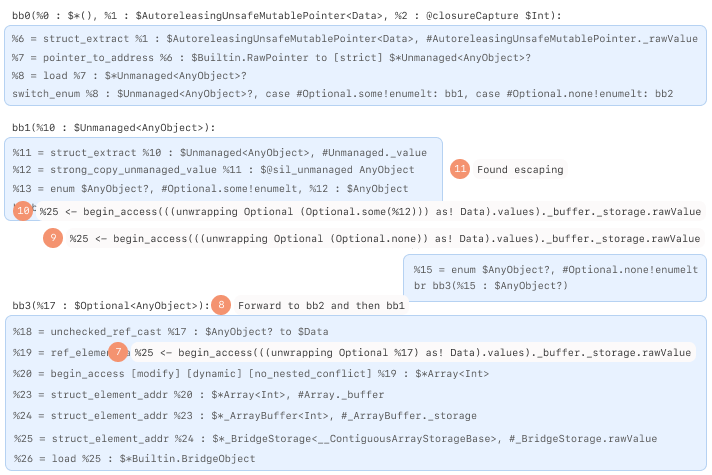
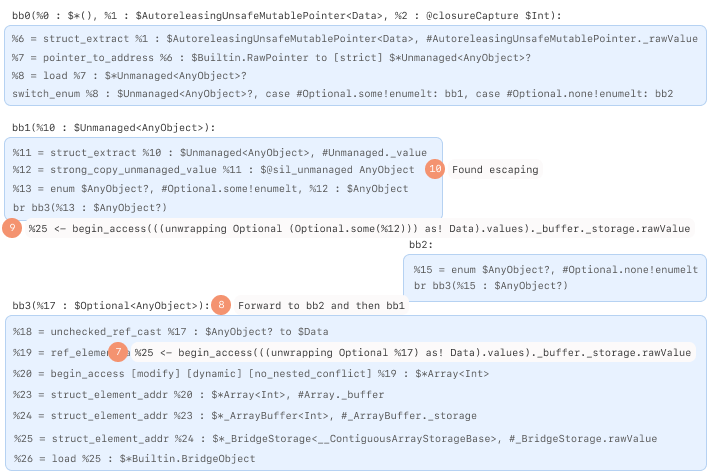
Updates latest info for the post.

Changed region(s): [[0.0, 0.4126, 0.9888, 0.5305], [0.5871, 0.3242, 0.8034, 0.3832]]

diff --git a/2025-03-09-when-the-swift-compiler-deleted-code-in-stdlib/zh-Hans/index.md b/2025-03-09-when-the-swift-compiler-deleted-code-in-stdlib/zh-Hans/index.md
@@ -4,6 +4,8 @@ category: Programming
 tags: [Swift, Compiler]
 ---
 
+> 最新更新：苹果已接受该问题的修复。最终解决方案在相关代码所有者 review 后进行了调整。
+
 蛇年春节假期前，一位同事向我展示了一个由 use-after-free（释放后使用）错误导致的神秘崩溃。最近，我有时间深入研究这个问题，并发现崩溃是由 Swift 编译器的错误编译引起的。下面是最小复现代码，必须使用 `-Osize` 优化级别编译。我们可以通过在编译过程中启用地址检查器（address sanitizer）来检测 use-after-free 问题。
 
 ```swift
@@ -355,20 +357,13 @@ public mutating func walkUpDefault(value def: Value, path: Path) -> WalkResult {
       }
       switch (urc.type.isOptional, urc.fromInstance.type.isOptional) {
         case (true, false):
-          if let path = path.popIfMatches(.enumCase, index: 0) {
-            if walkUp(value: urc.fromInstance, path: path) == .abortWalk {
-              return .abortWalk
-            } else if let path = path.popIfMatches(.enumCase, index: 1) {
-              return walkUp(value: urc.fromInstance, path: path)
-            }
-          }
-          return .abortWalk
-        case (false, true):
-          if walkUp(value: urc.fromInstance, path: path.push(.enumCase, index: 0)) == .abortWalk {
-            return .abortWalk
+          if let path = path.popIfMatches(.enumCase, index: 1) {
+            return walkUp(value: urc.fromInstance, path: path)
           } else {
-            return walkUp(value: urc.fromInstance, path: path.push(.enumCase, index: 1))
+            return unmatchedPath(value: urc.fromInstance, path: path)
           }
+        case (false, true):
+          return walkUp(value: urc.fromInstance, path: path.push(.enumCase, index: 1))
         default:
           return walkUp(value: urc.fromInstance, path: path)
       }
@@ -397,19 +392,13 @@ public mutating func walkDownDefault(value operand: Operand, path: Path) -> Walk
       }
       switch (urc.type.isOptional, urc.fromInstance.type.isOptional) {
         case (true, false):
-          if walkDownUses(ofValue: operand, path: path.push(.enumCase, index: 0)) == .abortWalk {
-            return .abortWalk
-          }
           return walkDownUses(ofValue: operand, path: path.push(.enumCase, index: 1))
         case (false, true):
-          if let path = path.popIfMatches(.enumCase, index: 0) {
-            if walkDownUses(ofValue: operand, path: path) == .abortWalk {
-              return .abortWalk
-            } else if let path = path.popIfMatches(.enumCase, index: 1) {
-              return walkDownUses(ofValue: operand, path: path)
-            }
+          if let path = path.popIfMatches(.enumCase, index: 1) {
+            return walkDownUses(ofValue: operand, path: path)
+          } else {
+            return unmatchedPath(value: operand, path: path)
           }
-          return .abortWalk
         default:
           return walkDownUses(ofValue: operand, path: path)
       }

diff --git a/2025-03-09-when-the-swift-compiler-deleted-code-in-stdlib/index.md b/2025-03-09-when-the-swift-compiler-deleted-code-in-stdlib/index.md
@@ -4,6 +4,9 @@ category: Programming
 tags: [Swift, Compiler]
 ---
 
+> Latest updated: Apple has accepted the fix for this issue. The final
+> solution was adjusted following a review by the relevant code owner.
+
 Right before the Chinese New Year vacation of the Year of the Snake, a
 colleague showed me a mysterious crash caused by a use-after-free error.
 Recently, I found time to investigate this issue and discovered that the
@@ -426,20 +429,13 @@ public mutating func walkUpDefault(value def: Value, path: Path) -> WalkResult {
       }
       switch (urc.type.isOptional, urc.fromInstance.type.isOptional) {
         case (true, false):
-          if let path = path.popIfMatches(.enumCase, index: 0) {
-            if walkUp(value: urc.fromInstance, path: path) == .abortWalk {
-              return .abortWalk
-            } else if let path = path.popIfMatches(.enumCase, index: 1) {
-              return walkUp(value: urc.fromInstance, path: path)
-            }
-          }
-          return .abortWalk
-        case (false, true):
-          if walkUp(value: urc.fromInstance, path: path.push(.enumCase, index: 0)) == .abortWalk {
-            return .abortWalk
+          if let path = path.popIfMatches(.enumCase, index: 1) {
+            return walkUp(value: urc.fromInstance, path: path)
           } else {
-            return walkUp(value: urc.fromInstance, path: path.push(.enumCase, index: 1))
+            return unmatchedPath(value: urc.fromInstance, path: path)
           }
+        case (false, true):
+          return walkUp(value: urc.fromInstance, path: path.push(.enumCase, index: 1))
         default:
           return walkUp(value: urc.fromInstance, path: path)
       }
@@ -473,19 +469,13 @@ public mutating func walkDownDefault(value operand: Operand, path: Path) -> Walk
       }
       switch (urc.type.isOptional, urc.fromInstance.type.isOptional) {
         case (true, false):
-          if walkDownUses(ofValue: operand, path: path.push(.enumCase, index: 0)) == .abortWalk {
-            return .abortWalk
-          }
           return walkDownUses(ofValue: operand, path: path.push(.enumCase, index: 1))
         case (false, true):
-          if let path = path.popIfMatches(.enumCase, index: 0) {
-            if walkDownUses(ofValue: operand, path: path) == .abortWalk {
-              return .abortWalk
-            } else if let path = path.popIfMatches(.enumCase, index: 1) {
-              return walkDownUses(ofValue: operand, path: path)
-            }
+          if let path = path.popIfMatches(.enumCase, index: 1) {
+            return walkDownUses(ofValue: operand, path: path)
+          } else {
+            return unmatchedPath(value: operand, path: path)
           }
-          return .abortWalk
         default:
           return walkDownUses(ofValue: operand, path: path)
       }
